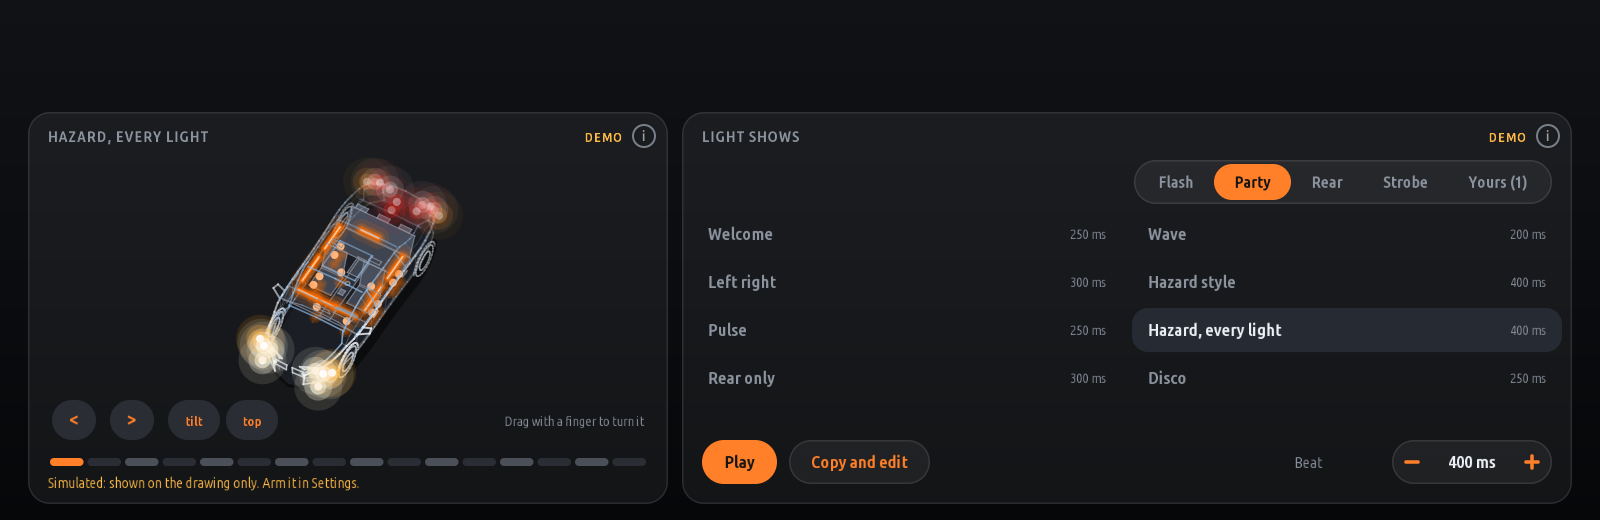
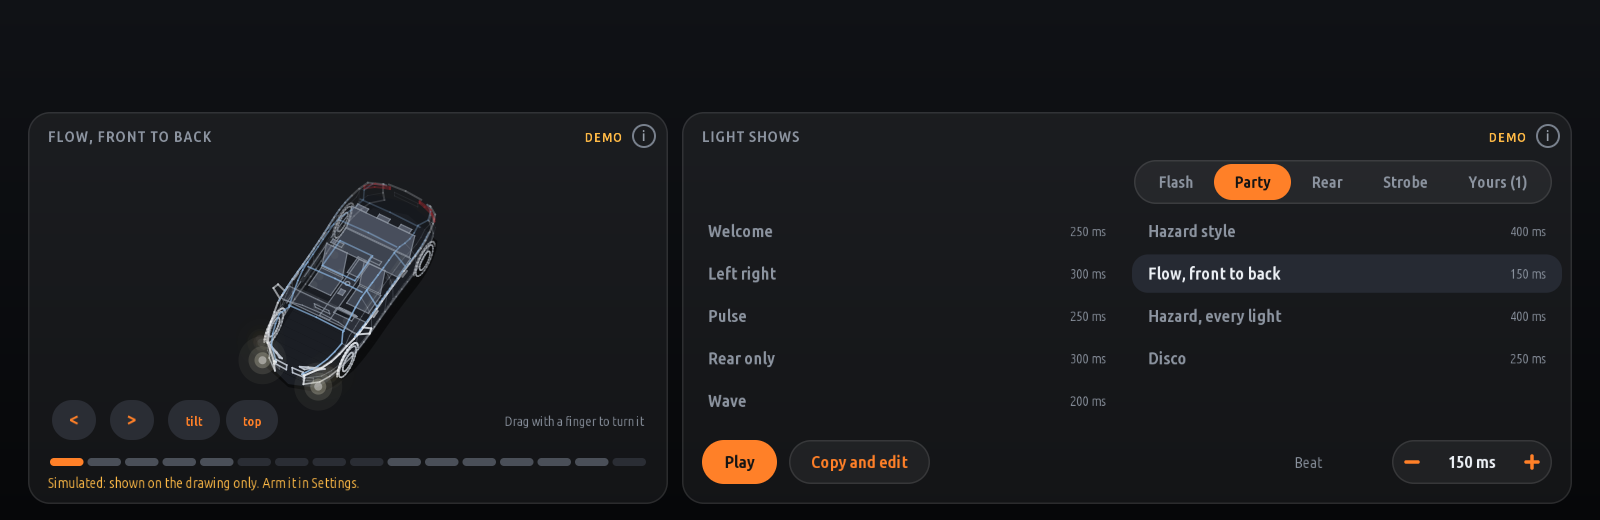
Lights 0.5: Flow, light running over the car front to back
A ready made show in Party: the light starts at the front fog lights,
climbs the nose to the headlights, runs back through the cabin's
ambient lights and comes down the tail to the rear fog light. Each set
fades out while the next one comes up (a soft bump that moves along the
way), drawn between beats so it glides. On the car the outside lamps
fire on the beats the wave reaches them and every ambient light gets its
own strength, in the ambient's colour.

diff --git a/apps/p96_lights/main.js b/apps/p96_lights/main.js
@@ -19,6 +19,7 @@ const Report = require('./garage_report');
 const P = require('./pages');
 const PR = require('./presets');
 const PF = require('./profiles');
+const CV = require('./carview');
 
 const W = 1600, H = 520;
 
@@ -99,7 +100,7 @@ mgu.run({
         const stopAll = (why) => {
             V.playAt = null; V.paused = null;
             try { if (lamps && lamps.running) lamps.stop(); } catch (e) { /* stopping */ }
-            try { if (lights) { lights.overlay('party', null); Object.keys(V.regionColours).forEach((k) => lights.overlay('reg|' + k, null)); lights.carColour(); } } catch (e) { /* stopping */ }
+            try { if (lights) { lights.overlay('party', null); lights.lights.forEach((l, i) => lights.overlay('flow|' + i, null)); Object.keys(V.regionColours).forEach((k) => lights.overlay('reg|' + k, null)); lights.carColour(); } } catch (e) { /* stopping */ }
             V.regionColours = {}; V.scene = Object.assign({}, V.scene, { own: true }); V.ours = false;
             if (why) log.info('lights: stopped, ' + why);
         };
@@ -205,7 +206,13 @@ mgu.run({
                         else lamps.play(beats, { beatMs: PF.msOf(p, store) });
                     }
                     // the cabin's colour row: laid over every ambient light on its beats, the rest of the time as it was
-                    if (lights && p.amb && p.amb.some(Boolean) && !allowed('ambient')) {
+                    if (lights && p.kind === 'flow' && !allowed('ambient')) {
+                        const at0 = V.playAt, ms = PF.msOf(p, store), rgb = V.scene.upper.rgb;
+                        lights.lights.forEach((l, i) => lights.overlay('flow|' + i, (x) => x === l, () => {
+                            const w = V.playAt === at0 ? PF.flowW(((now() - at0) / ms) % PF.BEATS) : -1;
+                            return { rgb: rgb, bright: Math.round(100 * CV.flowAt(CV.lightU(l), w)) };
+                        }));
+                    } else if (lights && p.amb && p.amb.some(Boolean) && !allowed('ambient')) {
                         const at0 = V.playAt;
                         lights.overlay('party', () => true, () => {
                             const c = V.playAt === at0 ? PF.ambAt(p, Math.floor((now() - at0) / PF.msOf(p, store)) % PF.BEATS) : null;
@@ -237,16 +244,16 @@ mgu.run({
 
         function values(t) {
             const p = presets[V.preset] || presets[0];
-            const beat = V.playAt != null || !armed() ? Math.floor((t - (V.playAt || t0)) / PF.msOf(p, store)) % PF.BEATS : 0;
+            const beatF = V.playAt != null || !armed() ? ((t - (V.playAt || t0)) / PF.msOf(p, store)) % PF.BEATS : 0, beat = Math.floor(beatF);
             return {
-                armed: armed(), moving: usingDemo() ? false : moving(), presets: presets, preset: V.preset, msOf: (q) => PF.msOf(q, store), group: V.group, edit: V.edit, mineCount: store.mine.length, playing: V.playAt != null, beat: beat, flash: V.flash,
+                armed: armed(), moving: usingDemo() ? false : moving(), presets: presets, preset: V.preset, beatF: beatF, msOf: (q) => PF.msOf(q, store), group: V.group, edit: V.edit, mineCount: store.mine.length, playing: V.playAt != null, beat: beat, flash: V.flash,
                 ambient: { state: lights ? lights.state : null, n: lights ? lights.lights.length : 0, lights: lights ? lights.lights : [], scene: V.scene, ours: !!V.ours && armed() },
                 carAmbient: carAmbient, view: V.view, region: V.region, regionColours: V.regionColours, paused: V.paused, outsideWant: V.outsideWant, outside: {}, live: V.live,
                 lamps: lamps ? { kind: lamps.kind, running: lamps.running, note: lamps.note } : { running: V.playAt != null && !armed() ? null : null },
             };
         }
 
-        function partyAmbientOff() { try { if (lights) lights.overlay('party', null); } catch (e) { /* stopping */ } }
+        function partyAmbientOff() { try { if (lights) { lights.overlay('party', null); lights.lights.forEach((l, i) => lights.overlay('flow|' + i, null)); } } catch (e) { /* stopping */ } }
         V.group = 'Party'; V.edit = false;
 
         /* ---------- the car on the Ambient page turns like a 3D model (owner, 2026-11-27 00:45) ----------

diff --git a/apps/p96_lights/carview.js b/apps/p96_lights/carview.js
@@ -225,7 +225,7 @@ function drawCarView(cv, t, box, lights, colourOf, opts) {
         cv.line(a[0], a[1], b[0], b[1], WID[kind], [c[0], c[1], c[2], Math.round(255 * al)]);
     });
     if (!lit) drawLights();
-    if (ext) drawLamps(cv, S, o.lamps || {});
+    if (ext) drawLamps(cv, S, o.lamps || {}, o.flow, o.lampCol || {});
 }
 
 /*
@@ -244,8 +244,38 @@ function lampPoints(fn) {
     (LAMP3D[fn] || []).forEach((p) => { out.push(p); if (!SIDED[fn] && p[1]) out.push([p[0], -p[1], p[2]]); });
     return out;
 }
-/** The outside lamps that are lit, glowing at their places (those on the far side of the car fainter). */
-function drawLamps(cv, S, lit) {
+/*
+ * The flow (owner, 2026-11-27 01:18): light running over the car from the lowest lamp at the front, up the nose, back
+ * through the cabin, and down the tail to the lowest lamp there. flowU(p) is a point's place on that way, 0 at the
+ * front fog lights .. 1 at the rear fog light; flowAt(u, w) how lit it is while the wave is at w: a soft bump, so one
+ * set is fading out while the next comes up.
+ */
+function flowU(p) {
+    const [x, , z] = p, h = Math.max(0, Math.min(1, (z - 0.3) / 0.75));
+    if (x > 1.3) return 0.28 * h;                                   // the nose: from the fog lights up to the headlights
+    if (x < -1.65) return 0.72 + 0.28 * (1 - h);                   // the tail: from the top down to the rear fog light
+    return 0.28 + 0.44 * (1.3 - x) / 2.95;                          // the cabin, front to back
+}
+const FLOW_W = 0.13;
+const flowAt = (u, w) => Math.exp(-Math.pow((u - w) / FLOW_W, 2));
+/** A cabin light's place on the way (its middle). */
+const lightU = (l) => flowU(lightPoint(l.x2 != null ? (l.x + l.x2) / 2 : l.x, l.y2 != null ? (l.y + l.y2) / 2 : l.y, l.part, isRoof(l)));
+/** An outside function's place: the middle of its lamps. */
+const fnU = (fn) => { const ps = lampPoints(fn); return ps.reduce((a, p) => a + flowU(p), 0) / Math.max(1, ps.length); };
+
+/** The outside lamps that are lit, glowing at their places (those on the far side of the car fainter). lit: { fn: rgb },
+ *  or with o.flow (the wave's place) every lamp at the strength flowAt gives it. */
+function drawLamps(cv, S, lit, flow, col) {
+    if (flow != null) {
+        const mid = S([0, 0, 0.6])[2];
+        Object.keys(LAMP3D).forEach((fn) => lampPoints(fn).forEach((p) => {
+            const a = flowAt(flowU(p), flow), q = S(p), f = (q[2] < mid - 0.3 ? 0.4 : 1) * a, c = col[fn] || [255, 255, 240];
+            if (a < 0.03) return;
+            [[24, 0.12], [14, 0.28], [8, 0.55]].forEach(([r, al]) => cv.circle(q[0], q[1], r, [c[0], c[1], c[2], Math.round(255 * al * f)]));
+            cv.circle(q[0], q[1], 4, [255, 255, 255, Math.round(240 * f)]);
+        }));
+        return;
+    }
     const mid = S([0, 0, 0.6])[2];
     Object.keys(lit).forEach((fn) => lampPoints(fn).forEach((p) => {
         const q = S(p), f = q[2] < mid - 0.3 ? 0.4 : 1, c = lit[fn];
@@ -254,4 +284,4 @@ function drawLamps(cv, S, lit) {
     }));
 }
 
-module.exports = { drawCarView, MAX_PITCH, MAX_ROLL, LAMP3D };
+module.exports = { drawCarView, MAX_PITCH, MAX_ROLL, LAMP3D, flowU, flowAt, lightU, fnU, lampPoints };

diff --git a/apps/p96_lights/profiles.js b/apps/p96_lights/profiles.js
@@ -12,6 +12,7 @@
  */
 const fs = require('fs');
 const PR = require('./presets');
+const CV = require('./carview');
 
 const BEATS = PR.BEATS, MINE = 8;
 const MIN_MS = 150, MAX_MS = 1000, STEP_MS = 50;          // the body controller holds a flash at most 150 ms
@@ -25,10 +26,14 @@ const col = (n) => AMB.filter((a) => a[0] === n)[0][1];
 
 // the ready made shows: the six sequences of presets.js (with a colour beat for the cabin) and the shows after
 // BimmerLight's groups (owner's screenshots, 2026-11-27): hazard with every light, the taillight shows, strobes
+// the flow: where the wave is on a beat (a little before the nose to a little past the tail), and the lamps it lights
+const flowW = (beat) => -0.1 + 1.2 * beat / (BEATS - 1);
+const flowBeats = () => mk((i) => ALL.filter((fn) => CV.lampPoints(fn).some((p) => CV.flowAt(CV.flowU(p), flowW(i)) > 0.45)));
 const GROUPS = [['Flash', 'Flash'], ['Party', 'Party'], ['Taillight', 'Rear'], ['Strobe', 'Strobe']];
 const READY = [
     ...PR.DEFAULTS.map((d, i) => ({ id: 'r' + i, name: d.name, group: 'Party', beatMs: d.beatMs, beats: d.beats.map((b) => b.slice()),
         amb: mk((k) => (i === 0 ? (k % 4 === 0 ? col('White') : null) : i === 5 ? (k % 2 ? null : col('Orange')) : null)) })),
+    { id: 'flow', name: 'Flow, front to back', group: 'Party', kind: 'flow', beatMs: 150, beats: flowBeats(), amb: mk(() => null) },
     { id: 'hazAll', name: 'Hazard, every light', group: 'Party', beatMs: 400, beats: mk((i) => (i % 2 ? [] : ALL.slice())), amb: mk((i) => (i % 2 ? null : col('Orange'))) },
     { id: 'disco', name: 'Disco', group: 'Party', beatMs: 250, beats: mk((i) => [['high'], ['parkL', 'parkR'], ['fog'], ['cornL', 'cornR']][i % 4]),
         amb: mk((i) => AMB[i % AMB.length][1]) },
@@ -96,4 +101,4 @@ const ambAt = (p, beat) => (p && p.amb && p.amb[beat]) || null;
 const uses = (p) => { const s = new Set(); p.beats.forEach((b) => b.forEach((f) => s.add(f))); return s; };
 const has = (p, fns) => { for (const f of uses(p)) if (fns.indexOf(f) < 0) return false; return true; };
 
-module.exports = { GROUPS, msOf, speedOf, inGroup, rateOf, BEATS, MINE, MIN_MS, MAX_MS, STEP_MS, AMB, ALL, READY, load, save, copy, toggle, ambNext, speed, lit, ambAt, uses, has, clean };
+module.exports = { flowW, GROUPS, msOf, speedOf, inGroup, rateOf, BEATS, MINE, MIN_MS, MAX_MS, STEP_MS, AMB, ALL, READY, load, save, copy, toggle, ambNext, speed, lit, ambAt, uses, has, clean };

diff --git a/apps/p96_lights/pages.js b/apps/p96_lights/pages.js
@@ -22,6 +22,7 @@ const UI = ui();
 const E = (function () { try { return require('./garage_engine'); } catch (e) { return require('../../lib/engine'); } })();
 const PR = require('./presets');
 const PF = require('./profiles');
+const CVW = require('./carview');
 const { drawCarView, MAX_PITCH, MAX_ROLL } = require('./carview');
 const LIN = require('./lin');
 const C = UI.C, T = UI.CONTENT_TOP, L = UI.MARGIN, R = UI.W - UI.MARGIN;
@@ -208,7 +209,12 @@ function pageParty(cv, v, st, t, act) {
     const amb = PF.ambAt(p, v.beat || 0), on = {};
     PF.lit(p, v.beat || 0).forEach((fn) => { on[fn] = LAMP_COL[fn] || [255, 255, 240]; });
     const cabinLights = v.ambient && v.ambient.lights && v.ambient.lights.length ? v.ambient.lights : LIN.sample();
-    drawCarView(cv, t, viewBox(), cabinLights, () => (amb ? { rgb: amb, bright: 100 } : null), Object.assign({}, v.view || { pitch: 0, roll: 0 }, { exterior: true, lamps: on }));
+    if (p.kind === 'flow') {
+        // the wave between beats too, so it glides: the lamps and the cabin in the ambient's own colour
+        const w = PF.flowW(v.beatF != null ? v.beatF : v.beat || 0), rgb = (v.ambient && v.ambient.scene && v.ambient.scene.upper && v.ambient.scene.upper.rgb) || [120, 200, 255];
+        drawCarView(cv, t, viewBox(), cabinLights, (l) => { const b = Math.round(100 * CVW.flowAt(CVW.lightU(l), w)); return b < 5 ? null : { rgb: rgb, bright: b }; },
+            Object.assign({}, v.view || { pitch: 0, roll: 0 }, { exterior: true, flow: w, lampCol: LAMP_COL }));
+    } else drawCarView(cv, t, viewBox(), cabinLights, () => (amb ? { rgb: amb, bright: 100 } : null), Object.assign({}, v.view || { pitch: 0, roll: 0 }, { exterior: true, lamps: on }));
     turnButtons(cv, act);
     // the beats under the car: the one playing now lit
     const bw = (lw - 40) / PF.BEATS;
